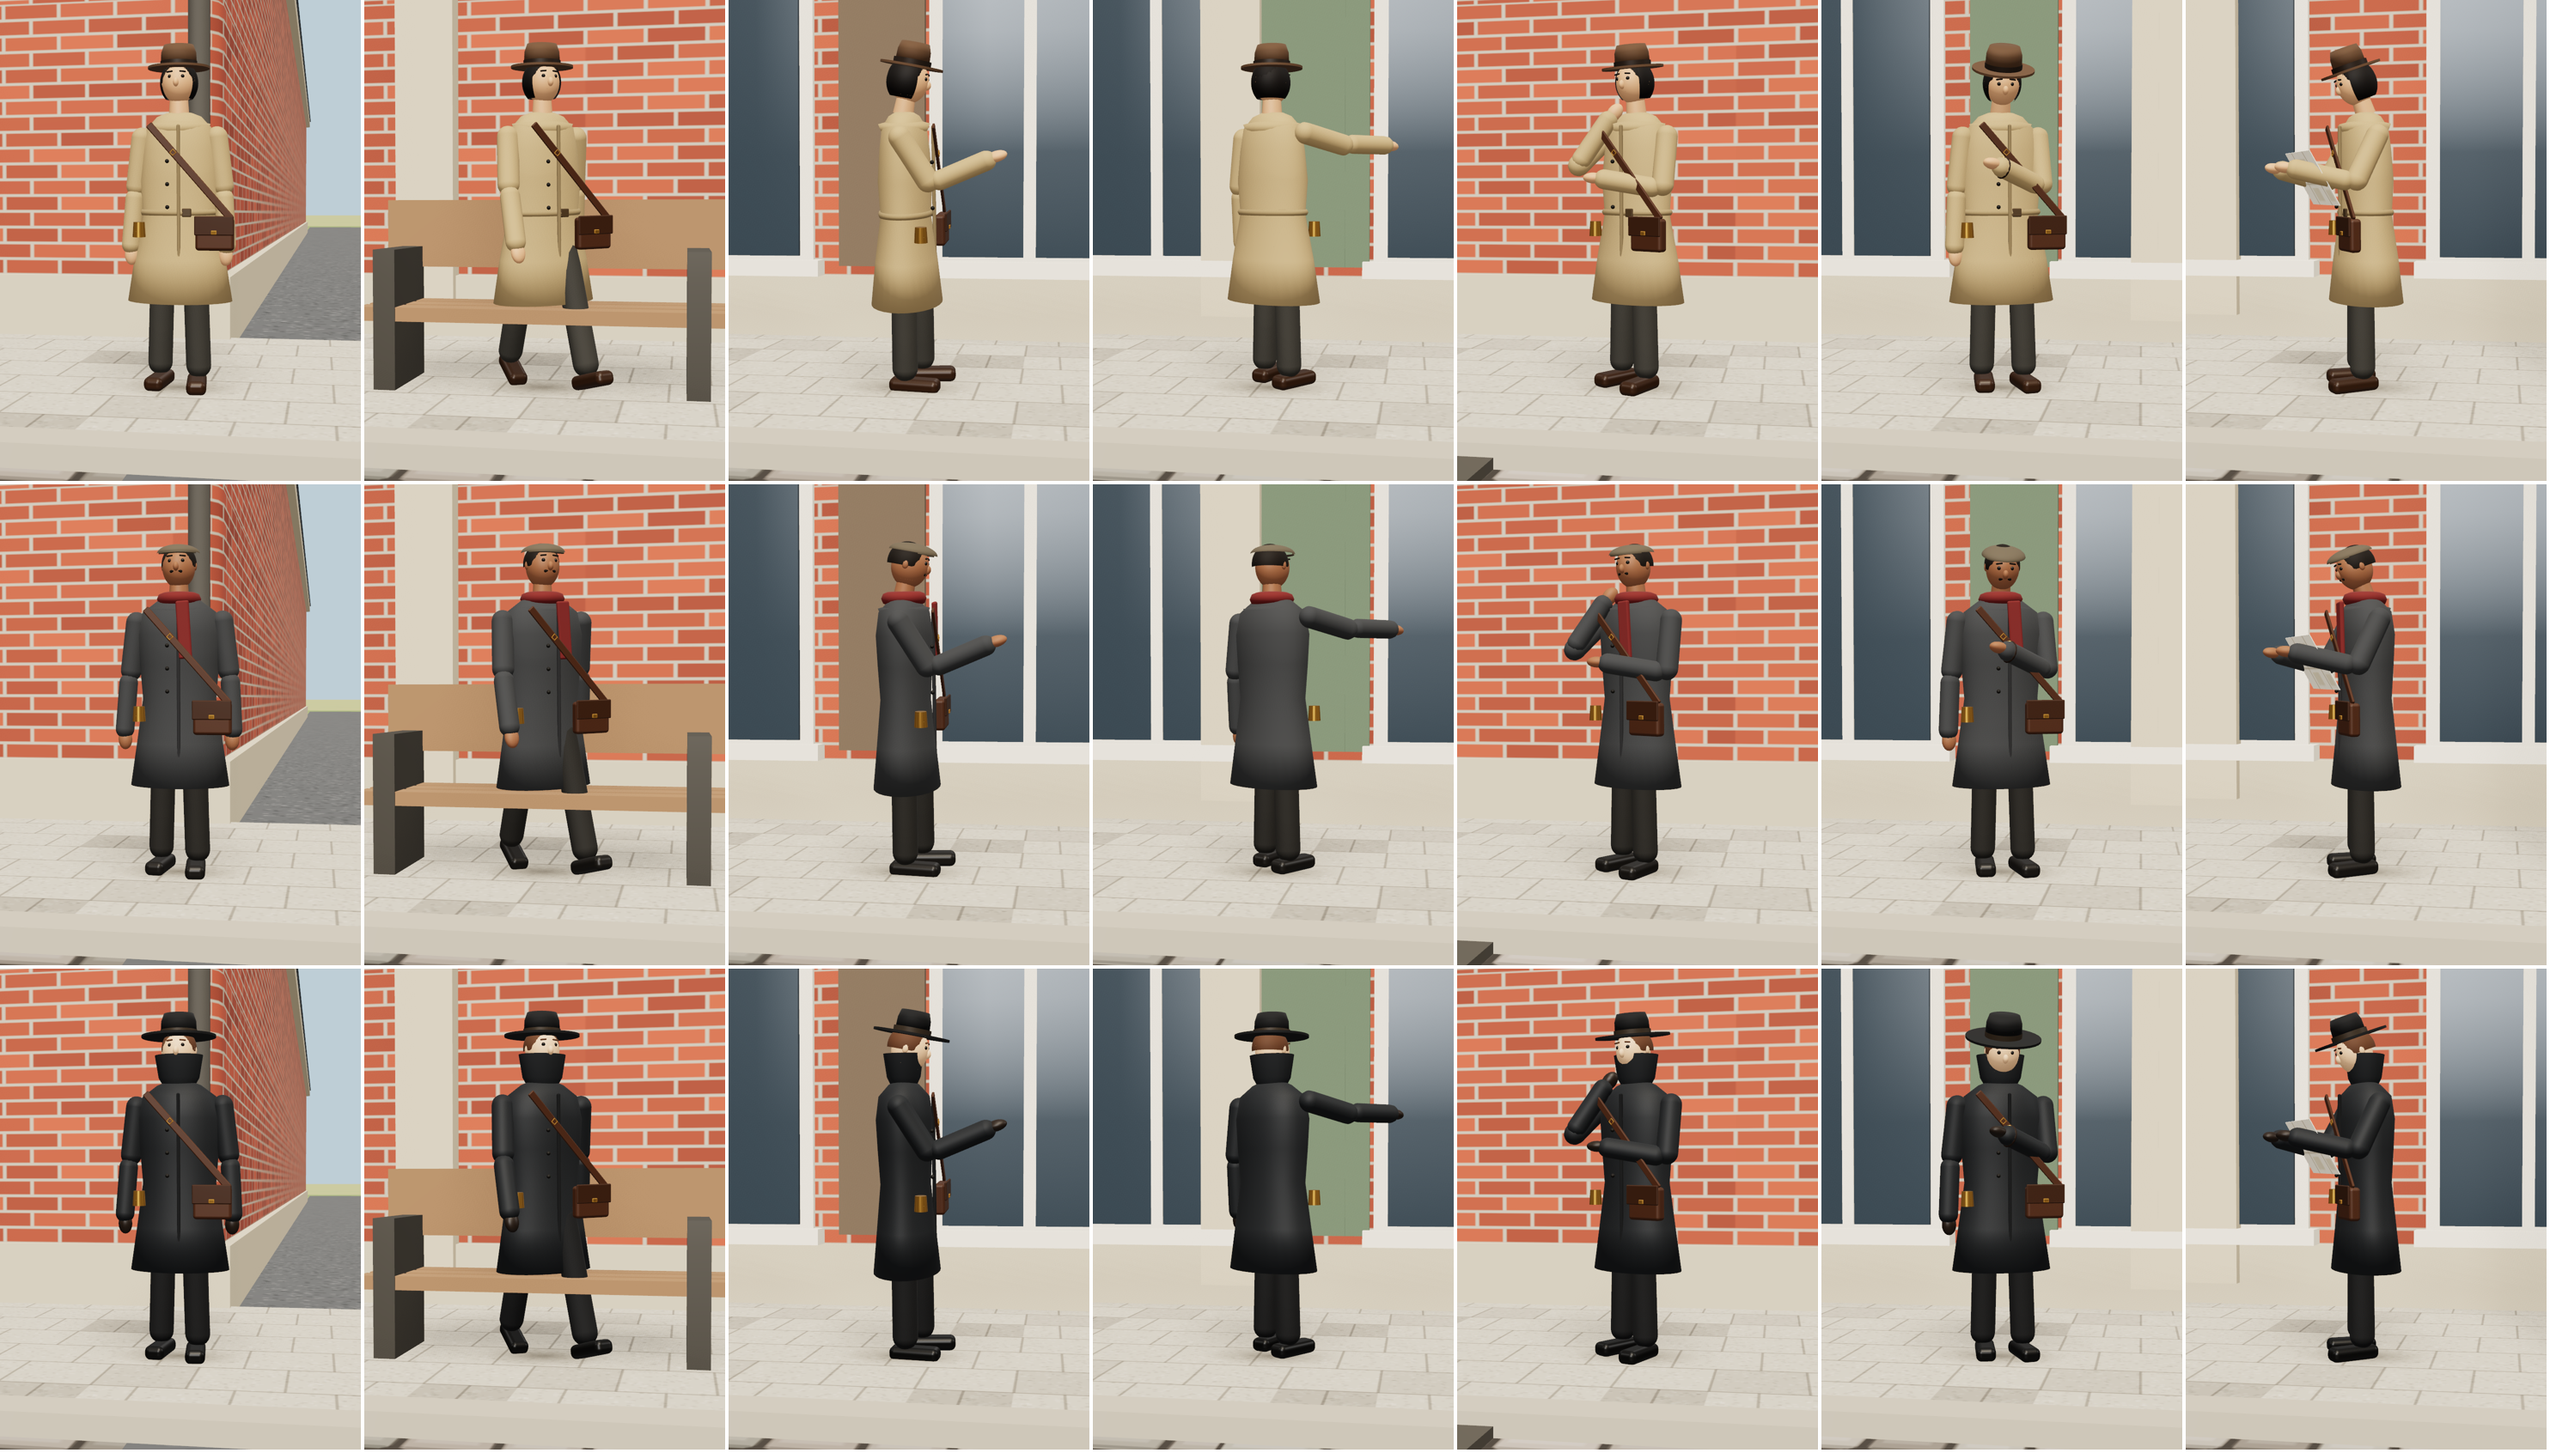
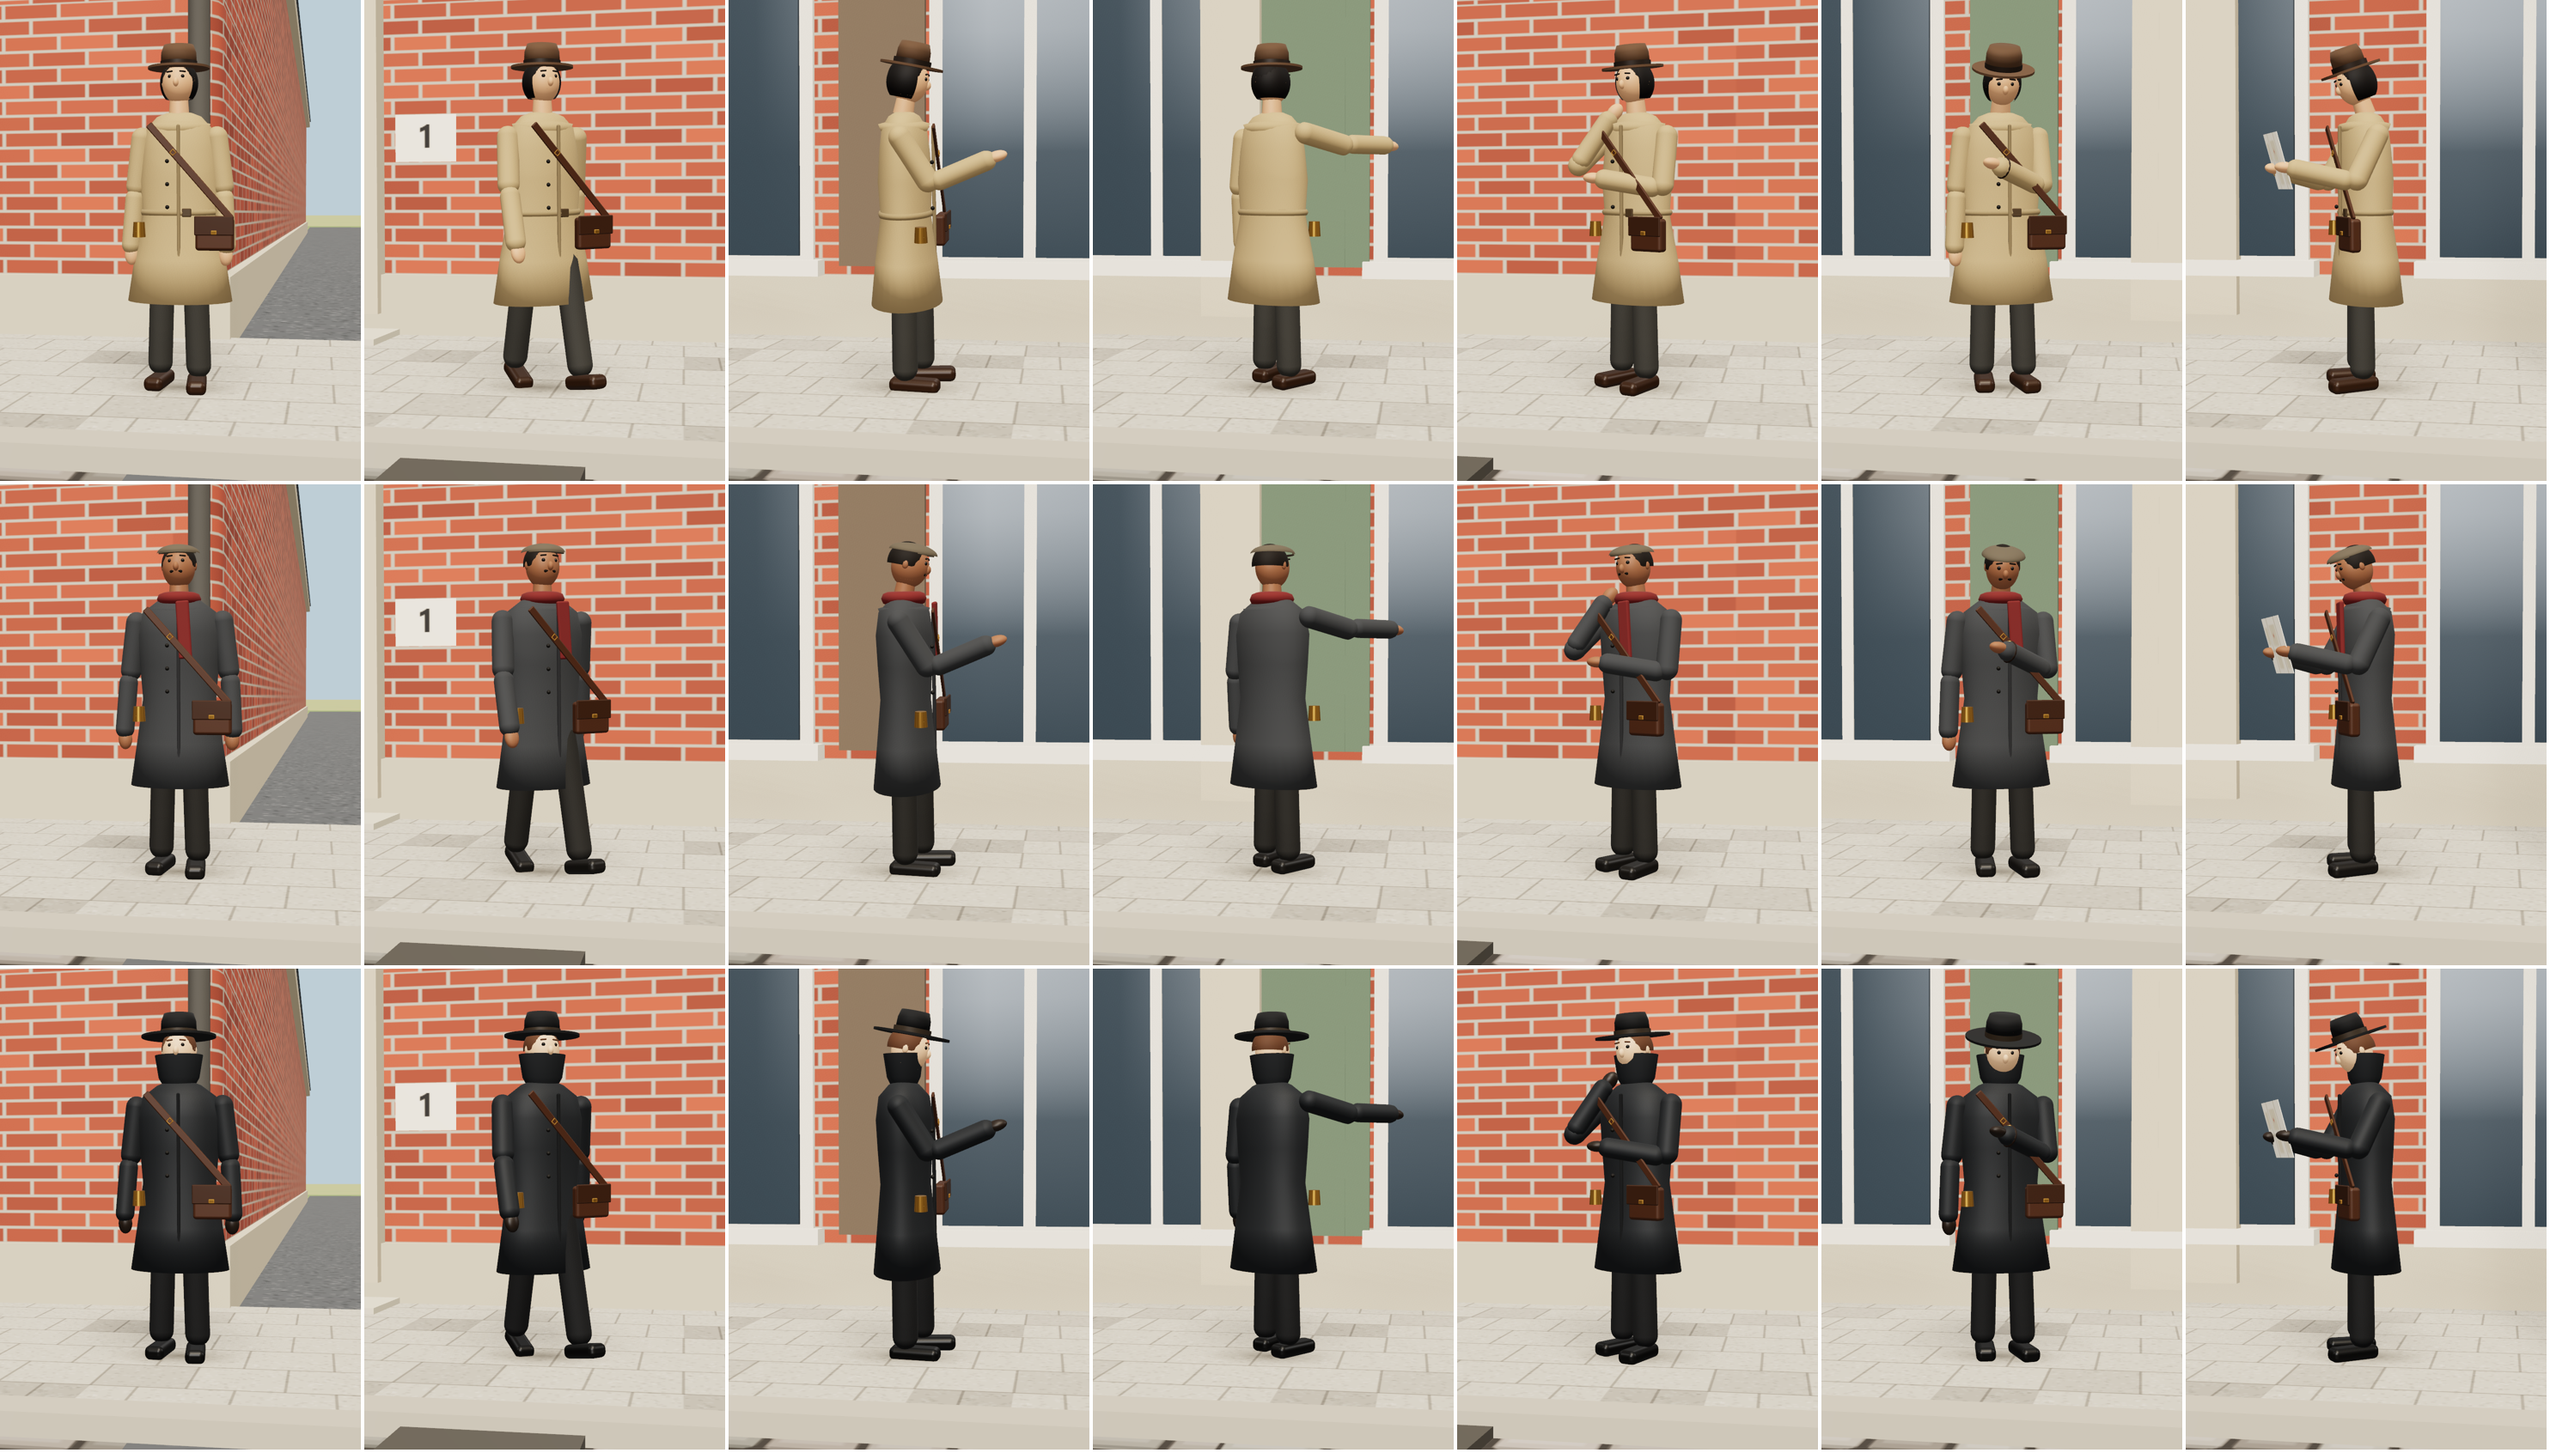
Detective: the map held in the palms, the walk clear of the bench and under the coat

diff --git a/detective/src/map3d/figure.ts b/detective/src/map3d/figure.ts
@@ -3,7 +3,7 @@
 // scaled to the street (1 unit 0.15 m), so the detective stands as tall as the doors and lamps say a person is.
 // 3 looks for the owner to choose from: `trench` (a woman), `overcoat` (a man with a moustache) and `noir`.
 
-import { BoxGeometry, CanvasTexture, CapsuleGeometry, CylinderGeometry, DoubleSide, Group, LatheGeometry, Mesh, MeshStandardMaterial, SphereGeometry, TorusGeometry, Vector2, type BufferGeometry } from 'three';
+import { BoxGeometry, CanvasTexture, CapsuleGeometry, CylinderGeometry, DoubleSide, Group, LatheGeometry, Mesh, MeshStandardMaterial, SphereGeometry, TorusGeometry, Vector2, Vector3, type BufferGeometry } from 'three';
 import { RoundedBoxGeometry } from 'three/examples/jsm/geometries/RoundedBoxGeometry.js';
 
 export type Look = 'trench' | 'overcoat' | 'noir';
@@ -98,7 +98,8 @@ export function detective(look: Look, pose: Pose = 'stand'): Group {
     foot.rotation.y = side * 0.12;
     leg.add(shin, foot);
     // Mid-stride: the right leg forward, the left back.
-    if (pose === 'walk') leg.rotation.x = side * -0.32;
+    // Kept short enough that the coat still covers the leg behind.
+    if (pose === 'walk') leg.rotation.x = side * -0.22;
     g.add(leg);
   }
 
@@ -151,6 +152,7 @@ export function detective(look: Look, pose: Pose = 'stand'): Group {
   const SHOULDER = 1.37;
   const ELBOW = 1.07;
   const at = ARMS[pose];
+  const palms: Mesh[] = [];
   for (const side of [-1, 1] as const) {
     const j = side === -1 ? at.right : at.left;
     const arm = new Group();
@@ -167,6 +169,7 @@ export function detective(look: Look, pose: Pose = 'stand'): Group {
     const palm = part(new SphereGeometry(0.048, 12, 10), hand, side * 0.29 * sh - ax - exx, 0.72 - ELBOW, 0.04);
     palm.scale.set(0.8, 1.15, 0.6);
     elbow.add(lower, palm);
+    palms.push(palm);
     if (pose === 'watch' && side === 1) {
       // A wristwatch on the left wrist: a brass case and a dark strap.
       const strapW = part(new TorusGeometry(0.05, 0.008, 6, 20), new MeshStandardMaterial({ color: '#2b1d14', roughness: 0.5 }), side * 0.288 * sh - ax - exx, 0.79 - ELBOW, 0.035);
@@ -183,9 +186,13 @@ export function detective(look: Look, pose: Pose = 'stand'): Group {
     g.add(arm);
   }
   if (pose === 'map') {
-    // A folded street map held open in both hands, tipped toward the face.
-    const map = part(new BoxGeometry(0.46, 0.003, 0.32), new MeshStandardMaterial({ map: mapPaper(), roughness: 0.8 }), 0, 1.13, 0.3);
-    map.rotation.x = -1.05;
+    // A folded street map held open in both hands: found where the hands are, a side resting in each palm, the
+    // thumbs over its lower edge, tipped up toward the face.
+    g.updateMatrixWorld(true);
+    const [r, l] = palms.map((m) => m.getWorldPosition(new Vector3()));
+    const width = r!.distanceTo(l!) + 0.05;
+    const map = part(new BoxGeometry(width, 0.003, 0.3), new MeshStandardMaterial({ map: mapPaper(), roughness: 0.8 }), (r!.x + l!.x) / 2, (r!.y + l!.y) / 2 + 0.035, (r!.z + l!.z) / 2 + 0.01);
+    map.rotation.x = -1.3;
     g.add(map);
   }
 

diff --git a/detective/scripts/render-3d.ts b/detective/scripts/render-3d.ts
@@ -44,7 +44,7 @@ if (posesAt >= 0) {
   mkdirSync(dir, { recursive: true });
   const looks = only[posesAt + 1] ? [only[posesAt + 1]!] : ['trench', 'overcoat', 'noir'];
   // Spots along the bakery side picked clear of poles, the post box and the parked cars.
-  const shots = [['stand', 0, 470], ['walk', 35, 300], ['look', 90, 380], ['point', 150, 440], ['think', 330, 345], ['watch', 20, 250], ['map', 300, 410]] as const;
+  const shots = [['stand', 0, 470], ['walk', 35, 340], ['look', 90, 380], ['point', 150, 440], ['think', 330, 345], ['watch', 20, 250], ['map', 300, 410]] as const;
   await page.setViewportSize({ width: 420, height: 560 });
   // A list of poses after the look renders only those: npm run street3d:render -- poses trench think,watch
   const pick = only[posesAt + 2]?.split(',');
